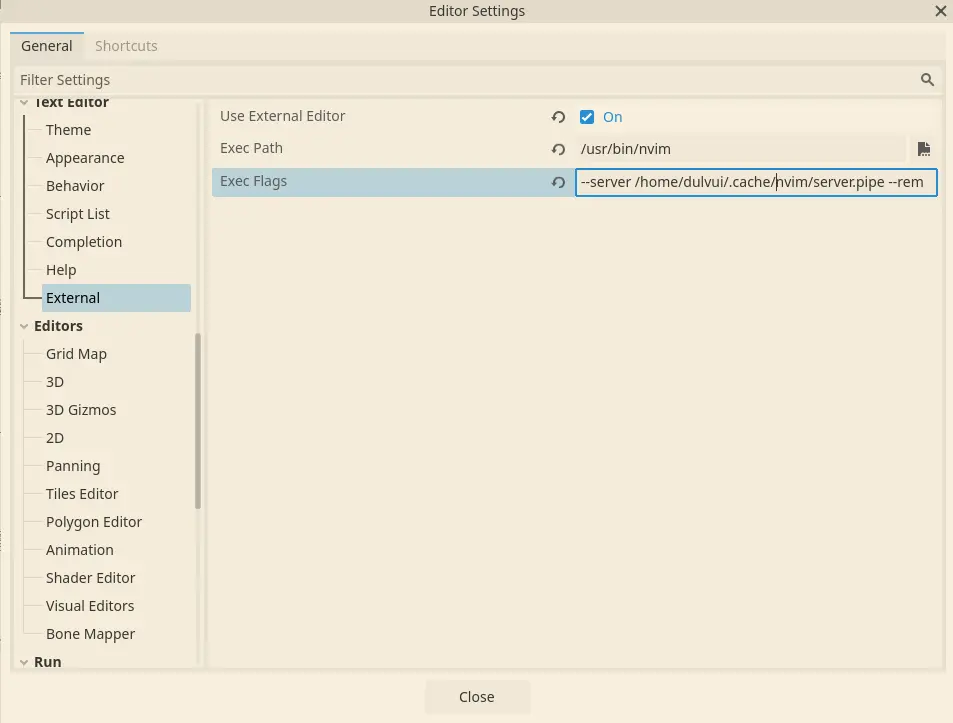
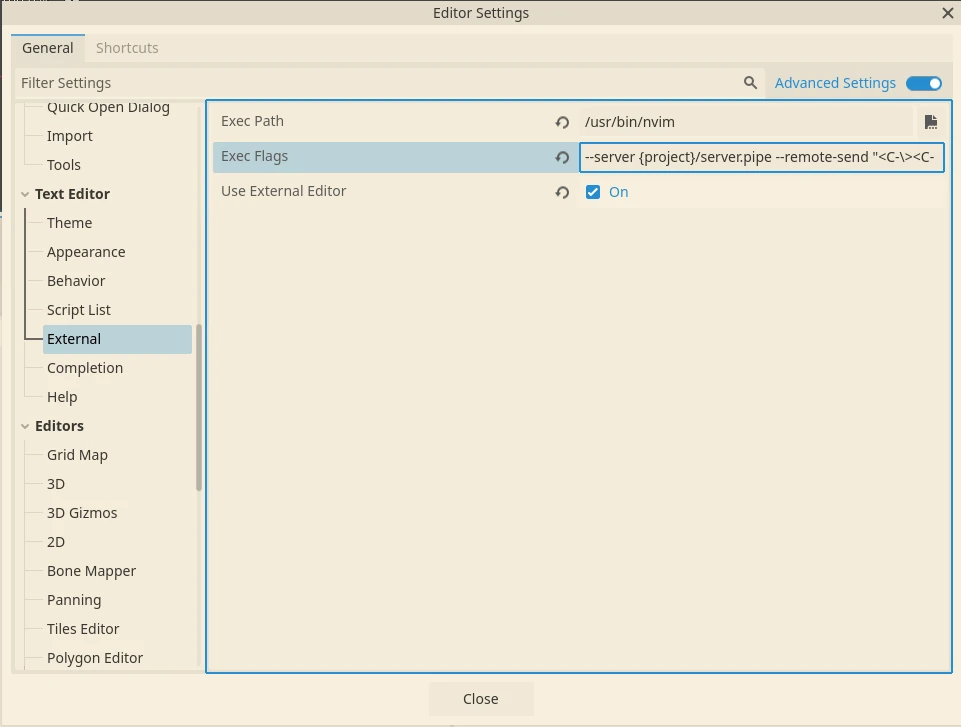
blog: update godot-neovim

Changed region(s): [[0.0, 0.0, 1.0, 0.9737], [0.426, 0.0, 0.5477, 0.0304], [0.9738, 0.0, 1.0, 0.0304]]

diff --git a/src/content/blog/godot-neovim/index.md b/src/content/blog/godot-neovim/index.md
@@ -2,7 +2,7 @@
 title = "Neovim as External Editor for Godot"
 descriptior = "How to setup and use Neovim as external Editor in Godot, with a few Neovim plugins and customizations."
 date = 2025-01-19T09:53:00+00:00
-updated = 2025-01-19T09:53:00+00:00
+updated = 2025-03-24T09:05:00+00:00
 [extra]
 mastodon_link = "https://mastodon.social/@dulvui/113854416500491083"
 hackernews_link = "https://news.ycombinator.com/item?id=42755603"
@@ -23,27 +23,42 @@ But you might miss some features like **opening files** when clicked in the file
 So lets set this up to let Godot add some magic to Neovim.
 
 ## Neovim server mode
-Before you can set Neovim as external editor in Godot, you need to start Neovim in server mode. 
+Before you can set Neovim as external editor in Godot, you need to start Neovim in server mode.
 Additionally to that, a **pipe file** is needed, where Godot can send commands to Neovim.  
-
-But first lets first create the nvim cache directory, where the file will be located.
-```bash
-mkdir -p ~/.cache/nvim
-```
-
-Now you can add the following code to the [**init.lua**](https://neovim.io/doc/user/lua-guide.html#lua-guide-config) file.
+Add the following code to the [**init.lua**](https://neovim.io/doc/user/lua-guide.html#lua-guide-config) file.
 ```lua
-local pipepath = vim.fn.stdpath("cache") .. "/server.pipe"
-if not vim.loop.fs_stat(pipepath) then
-  vim.fn.serverstart(pipepath)
+-- paths to check for project.godot file
+local paths_to_check = {'/', '/../'}
+local is_godot_project = false
+local godot_project_path = ''
+local cwd = vim.fn.getcwd()
+
+-- iterate over paths and check
+for key, value in pairs(paths_to_check) do
+    if vim.uv.fs_stat(cwd .. value .. 'project.godot') then
+        is_godot_project = true
+        godot_project_path = cwd .. value
+        break
+    end
+end
+
+-- check if server is already running in godot project path
+local is_server_running = vim.uv.fs_stat(godot_project_path .. '/server.pipe')
+-- start server, if not already running
+if is_godot_project and not is_server_running then
+    vim.fn.serverstart(godot_project_path .. '/server.pipe')
 end
 ```
-This will create the pipe file and start Neovim in server mode on startup.
+This code iterates over paths_to_check and tries to find a "project.godot" file.
+Then it checks if a server is already running.  
+I use this approach, because in my projects I separate the code in a "src/" directory.
+In my case the project.godot file is located in the parent directory.
+Additionally multiple Neovim instances can run, without causing errors or conflicts.  
+You can adapt the paths to check to your needs.
 
-There is room for improvements here, like to start server mode only, if a **project.godot** file is found.
-So there is no issue if you run multiple instances of Neovim.
-With the current setup, only the **first** instance opened, will receive the commands.  
-I will update this section, when I find a better solution or if you already have one, please let me know.
+Note that now a variable **is_godot_project** exists and allows to check if a Godot project is opened.
+This can get very handy to start the Godot LSP client, only for Godot projects or similar Godot specific configuration.
+No worries, this will be covered later in this blog post.
 
 ## Godot Editor Settings
 Now Neovim is ready to be set as external editor in **Editor Settings > Text Editor > External**.  
@@ -56,13 +71,12 @@ There you need to set the following values:
 3) Set **Exec Flags** to the following line.
 
 ```bash
---server /home/YOUR_USER/.cache/nvim/server.pipe --remote-send "<C-\><C-N>:e {file}<CR>:call cursor({line}+1,{col})<CR>"
+--server {project}/server.pipe --remote-send "<C-\><C-N>:e {file}<CR>:call cursor({line}+1,{col})<CR>"
 ```
-Remember to replace **YOUR_USER** with your username.
-
 This line will make Neovim open the **file** in a buffer and move your cursor to the indicated **line** and **column**.
 The **+1** in `cursor({line}+1)` is to go to the correct line.
-For some reason without +1, the line above is selected.
+For some reason without +1, the line above is selected.  
+The **{project}** keyword instead stands for the Godot project path.
 
 Now you can use Neovim as external editor in Godot and **open files** with it.
 
@@ -78,7 +92,13 @@ Plug('neovim/nvim-lspconfig')
 
 -- Setup
 local lspconfig = require('lspconfig')
-lspconfig.gdscript.setup{}
+
+-- godot lsp
+if is_godot_project then
+    -- setup lsp
+    lspconfig.gdscript.setup {}
+end
+
 ```
 Now you can access all special features when opening GDScript files.  
 You can try code competition with **Ctrl + x** and **Ctrl + o**.
@@ -151,7 +171,7 @@ But you can run specific scenes from the editor, right?
 Yes! But somehow Godot get's the breakpoints set with nvim-dap, **only** when started with nvim-dap.
 
 So I had to ask myself: how the f*ck was I debugging the last months??  
-And well, the ansewer is easy, I actually was not using nvim-dap, but the **breakpoint keyword**.  
+And well, the answer is easy, I actually was not using nvim-dap, but the **breakpoint keyword**.  
 
 The following code will print `Hello` and then break and wait.
 ```gd
@@ -170,29 +190,39 @@ And there is no need for an additional Neovim plugin.
 The best part of all this, I wrote my first **custom** Neovim functions/commands (or however they are called).
 Seeing for the first time, why Neovim is so fun and truly hackable.  
 ```lua
--- write breakpoint to new line
-vim.api.nvim_create_user_command('GodotBreakpoint', function()
-    vim.cmd('normal! obreakpoint' )
-    vim.cmd('write' )
-end, {})
-vim.keymap.set('n', '<leader>b', ':GodotBreakpoint<CR>')
+-- define functions only for Godot projects
+if is_godot_project then
+    -- write breakpoint to new line
+    vim.api.nvim_create_user_command('GodotBreakpoint', function()
+        vim.cmd('normal! obreakpoint' )
+        vim.cmd('write' )
+    end, {})
+    vim.keymap.set('n', '<leader>b', ':GodotBreakpoint<CR>')
 
--- delete all breakpoints in current file
-vim.api.nvim_create_user_command('GodotDeleteBreakpoints', function()
-    vim.cmd('g/breakpoint/d')
-end, {})
-vim.keymap.set('n', '<leader>BD', ':GodotDeleteBreakpoints<CR>')
+    -- delete all breakpoints in current file
+    vim.api.nvim_create_user_command('GodotDeleteBreakpoints', function()
+        vim.cmd('g/breakpoint/d')
+    end, {})
+    vim.keymap.set('n', '<leader>BD', ':GodotDeleteBreakpoints<CR>')
 
--- search all breakpoints in project
-vim.api.nvim_create_user_command('GodotFindBreakpoints', function()
-    vim.cmd(':grep breakpoint | copen')
-end, {})
-vim.keymap.set('n', '<leader>BF', ':GodotFindBreakpoints<CR>')
+    -- search all breakpoints in project
+    vim.api.nvim_create_user_command('GodotFindBreakpoints', function()
+        vim.cmd(':grep breakpoint | copen')
+    end, {})
+    vim.keymap.set('n', '<leader>BF', ':GodotFindBreakpoints<CR>')
+
+    -- append "# TRANSLATORS: " to current line
+    vim.api.nvim_create_user_command('GodotTranslators', function(opts)
+        vim.cmd('normal! A # TRANSLATORS: ')
+    end, {})
+end
 ```
 
 **GodotBreakpoint**  adds the "breakpoint" String below the line the cursor is on, indented correctly.  
 **GodotDeleteBreakpoints** deletes all breakpoints lines in the current buffer.  
 **GodotFindBreakpoints** finds all breakpoints in the current project.
+**GodotTranslators** adds a comment to the end of the line, for
+[translation comments](https://docs.godotengine.org/en/latest/tutorials/i18n/localization_using_gettext.html#extracting-localizable-strings-from-gdscript-files).  
 
 Now its possible to write, delete and search breakpoints within Neovim with simple keymaps.
 
@@ -221,14 +251,6 @@ vim.call('plug#begin')
 Plug('nvim-treesitter/nvim-treesitter', { ['do'] = ':TSUpdate' })
 Plug('neovim/nvim-lspconfig')
 vim.call('plug#end')
-
--- ----------------------
--- Start as server
--- ----------------------
-local pipepath = vim.fn.stdpath("cache") .. "/server.pipe"
-if not vim.loop.fs_stat(pipepath) then
-  vim.fn.serverstart(pipepath)
-end
 
 -- ----------------------
 -- lsp
@@ -279,6 +301,47 @@ end, {})
 vim.keymap.set('n', '<leader>BF', ':GodotFindBreakpoints<CR>')
 ```
 
+## Ignore some files
+If you use file explorers plugins you might want to hide some files for Godot projects.
+Like the server.pipe file or all *.uid files introduced in Godot 4.4.  
+This hides the files in [Nerdtree](https://github.com/preservim/nerdtree).
+```lua
+if is_godot_project then
+    -- ignore *.uid files introduced in godot 4.4
+    -- ignore server.pipe file
+    vim.cmd('let NERDTreeIgnore = ["\\.uid$", "server.pipe"]')
+end
+```
+
+And this [Oil](https://github.com/stevearc/oil.nvim).
+```lua
+-- ----------------------
+-- oil
+-- ----------------------
+require("oil").setup({
+    view_options = {
+        show_hidden = true,
+        is_always_hidden = function(name, bufnr)
+            -- for godot projects ignore *.uid files
+            if is_godot_project then
+                -- ignore *.uid files introduced in godot 4.4
+                if vim.endswith(name, '.uid') then
+                    return true
+                end
+                -- ignore server.pipe file
+                if name == 'server.pipe' then
+                    return true
+                end
+            else
+                return false
+            end
+        end,
+    },
+})
+```
+If you use other file explorer plugins, there surely is a way to hide this files too.
+Just check the docs or some example configs.
+
 ## What I miss in Neovim
 So far the biggest feature I miss, is the easy **Ctrl + drag and drop** of a Node into the text editor.
 This will automatically create the var with the correct Nodepath.  
@@ -296,3 +359,7 @@ Another crucial advantage is that you can move the Node around the tree, or chan
 
 At the end of the day, being able to use Neovim pays back anyways, if you like it and are keen to keep learning.
 Or you already know everything about Vim/Neovim, but let's be honest, **nobody does**.
+
+## Credits
+I want to thank [Daniel](https://github.com/DanWlker) for his great suggestions.
+Now multiple instances can be used and the server mode only starts, if a Godot project has been found.
